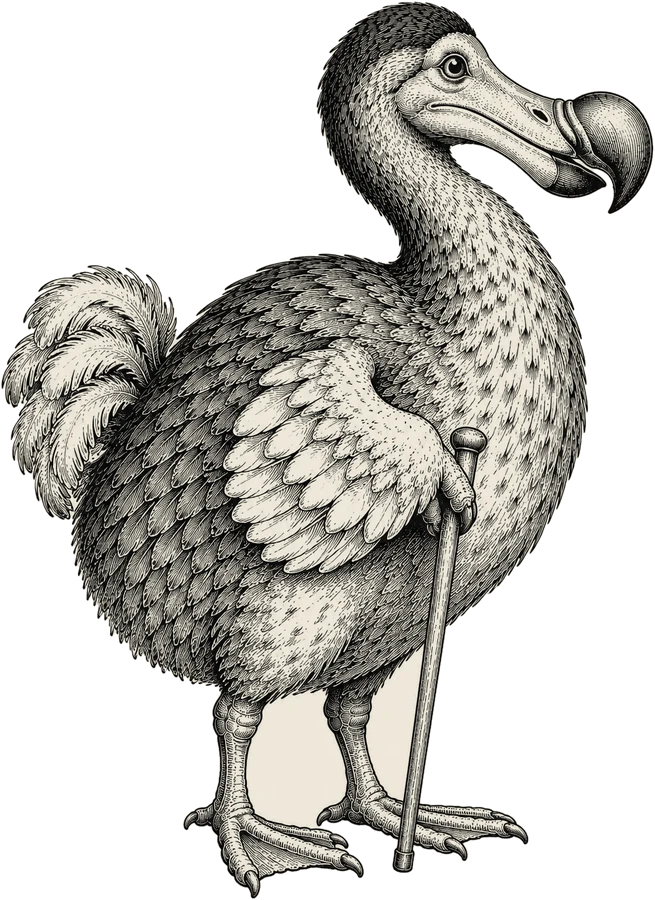
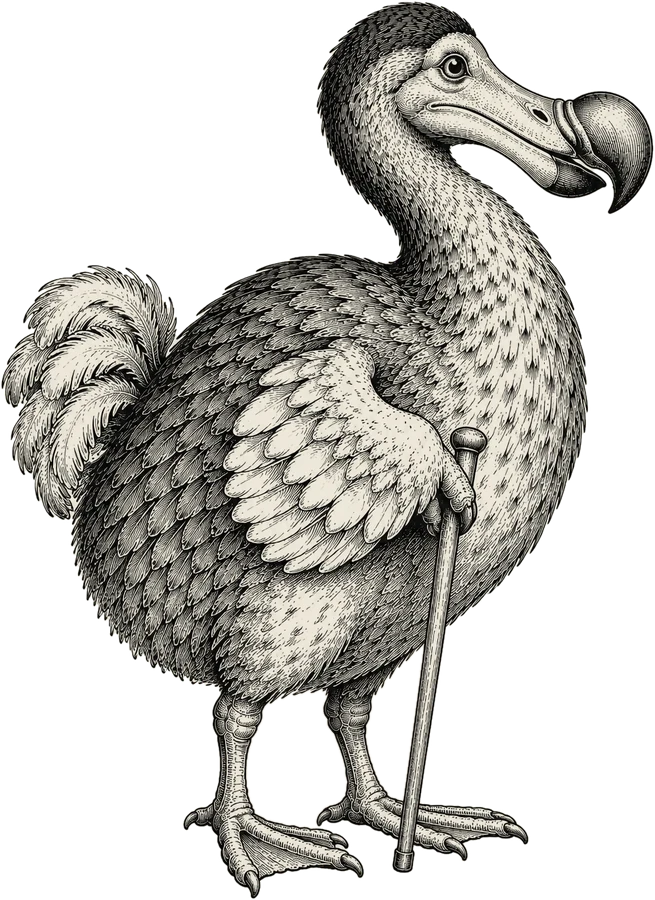
Dodo: paper gaps between legs, stick and wing see-through
The drawing's blank paper between his legs and stick (dodo_stand,
dodo3_point, dodo3_thimble) and between neck and raised wing (dodo3_think)
is now transparent, made with the new tools/open_cutout.py (from PTRR).

Claude-Session: https://claude.ai/code/session_01VBVjvBdrdQKpgzLocCYvkR

Changed region(s): [[0.3664, 0.7156, 0.6412, 0.9333]]

diff --git a/tools/open_cutout.py b/tools/open_cutout.py
@@ -1,0 +1,49 @@
+#!/usr/bin/env python3
+"""
+open_cutout.py -- make a paper gap in a cut-out drawing see-through (2026-11-22: the slate blue Dodo. The white
+between his legs, between his leg and his stick, and between his neck and his raised wing is the drawing's blank
+paper, closed in by the figure, so whitecut kept it; in the game it showed as a cream patch inside the bird).
+The opposite of tools/patch_cutout.py.
+
+  python3 tools/open_cutout.py public/art/ai/ch2/dodo_stand.webp "x,y x,y"
+
+Each point names a gap: the light, ink-free paper connected to it (grey above 200) becomes transparent, with a
+soft edge as whitecut makes, so the ink round it stays. The drawing keeps its size, so its part map and Restore
+plate still line up; rebuild the plate after (tools/restore/scene_tint.py build cast KEY).
+A fix to a book drawing: owed to Alice1 too (CLAUDE.md, "The book stays in Alice1").
+"""
+import sys
+
+import numpy as np
+from PIL import Image, ImageFilter
+from scipy import ndimage
+
+LIGHT = 200
+
+
+def gaps(a, seeds):
+    g = a[..., :3].astype(np.float32).mean(-1)
+    light = (g > LIGHT) & (a[..., 3] > 0)
+    lab, _ = ndimage.label(light)
+    m = np.zeros(light.shape, bool)
+    for x, y in seeds:
+        if not lab[y, x]:
+            sys.exit(f'no paper at {x},{y}')
+        m |= lab == lab[y, x]
+    return m
+
+
+def main():
+    path, pts = sys.argv[1], sys.argv[2]
+    seeds = [tuple(int(v) for v in p.split(',')) for p in pts.split()]
+    img = Image.open(path).convert('RGBA')
+    a = np.array(img)
+    m = gaps(a, seeds)
+    fg = Image.fromarray(((~m) * 255).astype(np.uint8)).filter(ImageFilter.GaussianBlur(0.8))
+    a[..., 3] = np.minimum(a[..., 3], np.asarray(fg))
+    Image.fromarray(a, 'RGBA').save(path, quality=90, method=6)
+    print(f'{path}: {int(m.sum())} px of paper made see-through')
+
+
+if __name__ == '__main__':
+    main()

diff --git a/PROVENANCE.md b/PROVENANCE.md
@@ -89,7 +89,7 @@ Every shipped asset is listed here with its source. AI-generated or AI-modified 
 | ai_duck_swim | `public/art/ai/ch2/duck_swim.webp` | AI | Generated in the same conversation (docs/ASSETS_MASTER.md, Chapter II prompt 21); original in `source/ai/duck_swim.webp` | OpenAI ChatGPT (GPT-6 chat); OpenAI image generation, exact image model not disclosed; received 2026-10-11 | Whole image generated. Cut out and paper-tinted with `tools/ch2_art.py` (via `tools/whitecut.py`). Used in Chapter II. | 2026-10-11 | Owner (generated), Claude Code (processed) |
 | ai_duck_stand | `public/art/ai/ch2/duck_stand.webp` | AI | Generated in the same conversation (docs/ASSETS_MASTER.md, Chapter II prompt 21); original in `source/ai/duck_stand.webp` | OpenAI ChatGPT (GPT-6 chat); OpenAI image generation, exact image model not disclosed; received 2026-10-11 | Whole image generated. Cut out and paper-tinted with `tools/ch2_art.py` (via `tools/whitecut.py`). Used in Chapter III. | 2026-10-11 | Owner (generated), Claude Code (processed) |
 | ai_dodo_swim | `public/art/ai/ch2/dodo_swim.webp` | AI | Generated in the same conversation (docs/ASSETS_MASTER.md, Chapter II prompt 22); original in `source/ai/dodo_swim.webp` | OpenAI ChatGPT (GPT-6 chat); OpenAI image generation, exact image model not disclosed; received 2026-10-11 | Whole image generated. Cut out and paper-tinted with `tools/ch2_art.py` (via `tools/whitecut.py`). Used in Chapter II. | 2026-10-11 | Owner (generated), Claude Code (processed) |
-| ai_dodo_stand | `public/art/ai/ch2/dodo_stand.webp` | AI | Generated in the same conversation (docs/ASSETS_MASTER.md, Chapter II prompt 22); original in `source/ai/dodo_stand.webp` | OpenAI ChatGPT (GPT-6 chat); OpenAI image generation, exact image model not disclosed; received 2026-10-11 | Whole image generated. Cut out and paper-tinted with `tools/ch2_art.py` (via `tools/whitecut.py`). Used in Chapter III. | 2026-10-11 | Owner (generated), Claude Code (processed) |
+| ai_dodo_stand | `public/art/ai/ch2/dodo_stand.webp` | AI | Generated in the same conversation (docs/ASSETS_MASTER.md, Chapter II prompt 22); original in `source/ai/dodo_stand.webp` | OpenAI ChatGPT (GPT-6 chat); OpenAI image generation, exact image model not disclosed; received 2026-10-11 | Whole image generated. Cut out and paper-tinted with `tools/ch2_art.py` (via `tools/whitecut.py`). Used in Chapter III. The paper between his legs and stick made see-through with `tools/open_cutout.py` (2026-11-22). | 2026-10-11 | Owner (generated), Claude Code (processed) |
 | ai_lory_swim | `public/art/ai/ch2/lory_swim.webp` | AI | Generated in the same conversation (docs/ASSETS_MASTER.md, Chapter II prompt 23); original in `source/ai/lory_swim.webp` | OpenAI ChatGPT (GPT-6 chat); OpenAI image generation, exact image model not disclosed; received 2026-10-11 | Whole image generated. Cut out and paper-tinted with `tools/ch2_art.py` (via `tools/whitecut.py`). Used in Chapter II. | 2026-10-11 | Owner (generated), Claude Code (processed) |
 | ai_lory_stand | `public/art/ai/ch2/lory_stand.webp` | AI | Generated in the same conversation (docs/ASSETS_MASTER.md, Chapter II prompt 23); original in `source/ai/lory_stand.webp` | OpenAI ChatGPT (GPT-6 chat); OpenAI image generation, exact image model not disclosed; received 2026-10-11 | Whole image generated. Cut out and paper-tinted with `tools/ch2_art.py` (via `tools/whitecut.py`). Used in Chapter III. | 2026-10-11 | Owner (generated), Claude Code (processed) |
 | ai_eaglet_swim | `public/art/ai/ch2/eaglet_swim.webp` | AI | Generated in the same conversation (docs/ASSETS_MASTER.md, Chapter II prompt 24); original in `source/ai/eaglet_swim.webp` | OpenAI ChatGPT (GPT-6 chat); OpenAI image generation, exact image model not disclosed; received 2026-10-11 | Whole image generated. Cut out and paper-tinted with `tools/ch2_art.py` (via `tools/whitecut.py`). Used in Chapter II. | 2026-10-11 | Owner (generated), Claude Code (processed) |
@@ -154,7 +154,7 @@ Every shipped asset is listed here with its source. AI-generated or AI-modified 
 | ai_ch3_creatures | `public/art/ai/ch3/owl3.webp`, `magpie3`, `magpie3_shawl`, `canary3`, `canary3_chicks`, `crab`, `crabling` | AI | Chapter III prompts 21-24; originals `source/ai/owl3.png`, `magpie3.png`, `magpie3_shawl.png`, `canary3.png`, `canary3_chicks.png`, `crabs3.png` (the Crab and her daughter, split in two by `tools/creatures_art.py`). The Owl and the crabs after Tenniel's plate 3.1 cropped to them (`source/plates/tenniel_w03-1_owl_only.png`, `tenniel_w03-1_crabs_only.png`; plates 2.1-2.4, 3.1, 3.2 from victorianweb.org in `source/plates/`); the Magpie and the Canary drawn as the real birds (Tenniel shows them only indistinctly); later poses from the first pictures. | OpenAI gpt-image-2.5-sunburst via the API (generated by Claude Code, 2026-10-14) | Whole images generated. Cut out and paper-tinted with `tools/creatures_art.py`. Used in Chapter III, and on the jury in XI and XII. See-through holes (the canary's breast in canary3 and canary3_chicks), cut away with the white, closed with `tools/patch_cutout.py --holes` (2026-11-14). | 2026-10-14 | Owner (approved), Claude Code (generated, processed) |
 | ai_rabbit_model | `public/art/ai/ch2/rabbit2_trot.webp`, `rabbit2_start`, `rabbit2_away`; `ch4/rabbit4_search`, `rabbit4_point`, `rabbit4_frame`, `rabbit4_order`; `ch8/rabbit8_peep`, `rabbit8_tiptoe`; `ch11/rabbit_herald`, `rabbit_trumpet`, `rabbit_scroll`, `rabbit_specs` | AI | The owner's rule (2026-10-14): the Chapter I White Rabbit (`source/ai/rabbit_sheet.webp`) is the model in every scene. Each pose drawn from that sheet; the Chapter II poses also from the earlier Chapter II drawings for the pose (these replace them; the same file names in `source/ai/` now hold the new drawings as .png, the old .webp kept); the herald poses also from Tenniel's plate 11.1 (`source/plates/tenniel_w11-1_rabbit_herald_victorianweb.jpg`) for the tabard and ruff. The spectacles prompt was refused once by the safety filter, then went through on a retry. | OpenAI gpt-image-2.5-sunburst via the API (generated by Claude Code, 2026-10-14) | Whole images generated. Cut out, made white (not paper) and given his pink eye with `tools/rabbit_art.py`. Used in Chapters II, IV, VIII, XI, XII (the Tenniel engraving 'watch' pose is no longer used). | 2026-10-14 | Owner (rule), Claude Code (generated, processed) |
 | ai_ch8_flamingo_hedgehog | `public/art/ai/ch8/flamingo_stand.webp`, `flamingo_mallet`, `flamingo_twist`, `flamingo_fly`, `hedgehog_crawl`, `hedgehog_ball`, `hedgehog_fight` | AI | Chapter VIII prompts 21-23; originals in `source/ai/` under the same names (`flamingo_stand.png` is version A, the owner's pick; `flamingo_stand_alt.png` unused). After Tenniel's plate 8.3 cropped to the flamingo's head and neck and to the hedgehog (`source/plates/tenniel_w08-3_flamingo_head.png`, `tenniel_w08-3_hedgehog.png`); later poses from the first pictures. | OpenAI gpt-image-2.5-sunburst via the API (generated by Claude Code, 2026-10-14) | Whole images generated. Cut out and paper-tinted with `tools/creatures_art.py`. Used in Chapter VIII (held as a mallet, twisting round, flying at the tree; the ball, crawling away, two fighting), on the jury (XI) and in the Chapter XII dream. | 2026-10-14 | Owner (approved), Claude Code (generated, processed) |
-| ai_ch3_poses | `public/art/ai/ch3/mouse3_lecture.webp`, `mouse3_cross`, `mouse3_sigh`, `mouse3_angry`, `mouse3_away`, `dodo3_rise`, `dodo3_think`, `dodo3_point`, `dodo3_thimble`, `lory3_sulk`, `eaglet3_smile`, `duck3_ask` | AI | Chapter III prompts 1-12; originals in `source/ai/` under the same names. Each from that creature's Chapter II drawing (`source/ai/mouse_swim.webp`, `dodo_stand.webp`, `lory_stand.webp`, `eaglet_stand.webp`, `duck_stand.webp`); the Mouse also after plate 3.1 (`source/plates/tenniel_w03-1_mouse_only.png`), the Dodo with the thimble after plate 3.2 (`tenniel_w03-2_dodo_only.png`). | OpenAI gpt-image-2.5-sunburst via the API (generated by Claude Code, 2026-10-14) | Whole images generated. Cut out and paper-tinted with `tools/creatures_art.py`. Used in Chapter III; the Mouse also on the jury and in the XII dream. | 2026-10-14 | Claude Code (generated, processed) |
+| ai_ch3_poses | `public/art/ai/ch3/mouse3_lecture.webp`, `mouse3_cross`, `mouse3_sigh`, `mouse3_angry`, `mouse3_away`, `dodo3_rise`, `dodo3_think`, `dodo3_point`, `dodo3_thimble`, `lory3_sulk`, `eaglet3_smile`, `duck3_ask` | AI | Chapter III prompts 1-12; originals in `source/ai/` under the same names. Each from that creature's Chapter II drawing (`source/ai/mouse_swim.webp`, `dodo_stand.webp`, `lory_stand.webp`, `eaglet_stand.webp`, `duck_stand.webp`); the Mouse also after plate 3.1 (`source/plates/tenniel_w03-1_mouse_only.png`), the Dodo with the thimble after plate 3.2 (`tenniel_w03-2_dodo_only.png`). | OpenAI gpt-image-2.5-sunburst via the API (generated by Claude Code, 2026-10-14) | Whole images generated. Cut out and paper-tinted with `tools/creatures_art.py`. Used in Chapter III; the Mouse also on the jury and in the XII dream. The Dodo's paper gaps (between legs and stick in dodo3_point and dodo3_thimble, between neck and wing in dodo3_think) made see-through with `tools/open_cutout.py` (2026-11-22). | 2026-10-14 | Claude Code (generated, processed) |
 | ai_caterpillar_poses | `public/art/ai/ch5/caterpillar_speak.webp`, `caterpillar_rear`, `caterpillar_yawn`, `caterpillar_crawl`, `hookah` | AI | Chapter V prompts 10-13; originals in `source/ai/` under the same names, from the Caterpillar's first drawing (`source/ai/caterpillar_sit.png`), drawn without the hookah; the hookah alone from the same drawing. | OpenAI gpt-image-2.5-sunburst via the API (generated by Claude Code, 2026-10-14) | Whole images generated. Cut out, the Caterpillar coloured blue (COLOR.md) with `tools/ch5_art.py`. Used in Chapter V: smoking while the text has the hookah in his mouth, otherwise speaking with the hookah beside him; rearing up; yawning; crawling away. | 2026-10-14 | Claude Code (generated, processed) |
 | ai_rabbit_ch1_extra | `public/art/ai/ch1/rabbit_run_side.webp`, `rabbit_hop`, `rabbit_idle_b` | AI | Chapter I prompts 10, 12, 13; from the Chapter I model sheet (`source/ai/rabbit_sheet.webp`; the running one from its trotting figure, `source/ai/ref_rabbit_trot_crop.png`, after the safety filter refused the first wording). | OpenAI gpt-image-2.5-sunburst via the API (generated by Claude Code, 2026-10-14) | Whole images generated. Cut out, white, pink eye with `tools/rabbit_art.py`. Used in Chapter I: running past and across the field, glancing back by the hedge, leaping down the hole; running down the passage. | 2026-10-14 | Claude Code (generated, processed) |
 | ai_cheshire_head | `public/art/ai/ch8/cheshire_head.webp`, `cheshire_head_grin`, `cheshire_head_eyes` | AI | Chapter VIII prompt 24; original `source/ai/cheshire_head.png`, after Tenniel's plate 8.4 cropped to the head (`source/plates/tenniel_w08-4_cheshire_head.png`) and our Chapter VI Cat (`source/ai/cheshire_bough.png`). | OpenAI gpt-image-2.5-sunburst via the API (generated by Claude Code, 2026-10-14) | Whole image generated. Cut out and paper-tinted with `tools/creatures_art.py`, which also masks it to the grin alone and to the grin and eyes. Used in Chapter VIII: the grin, then the eyes, then the whole head. | 2026-10-14 | Claude Code (generated, processed) |
